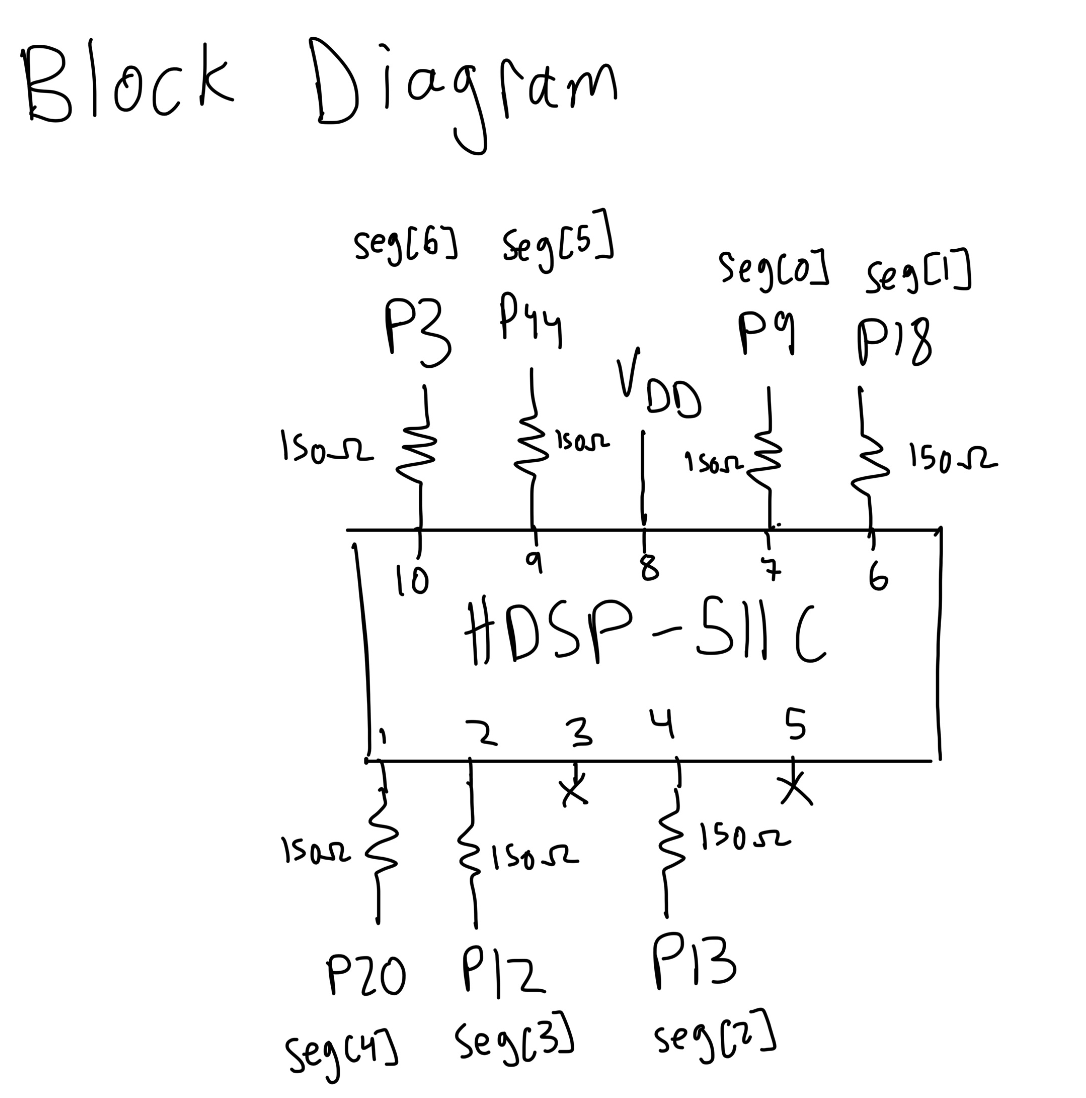
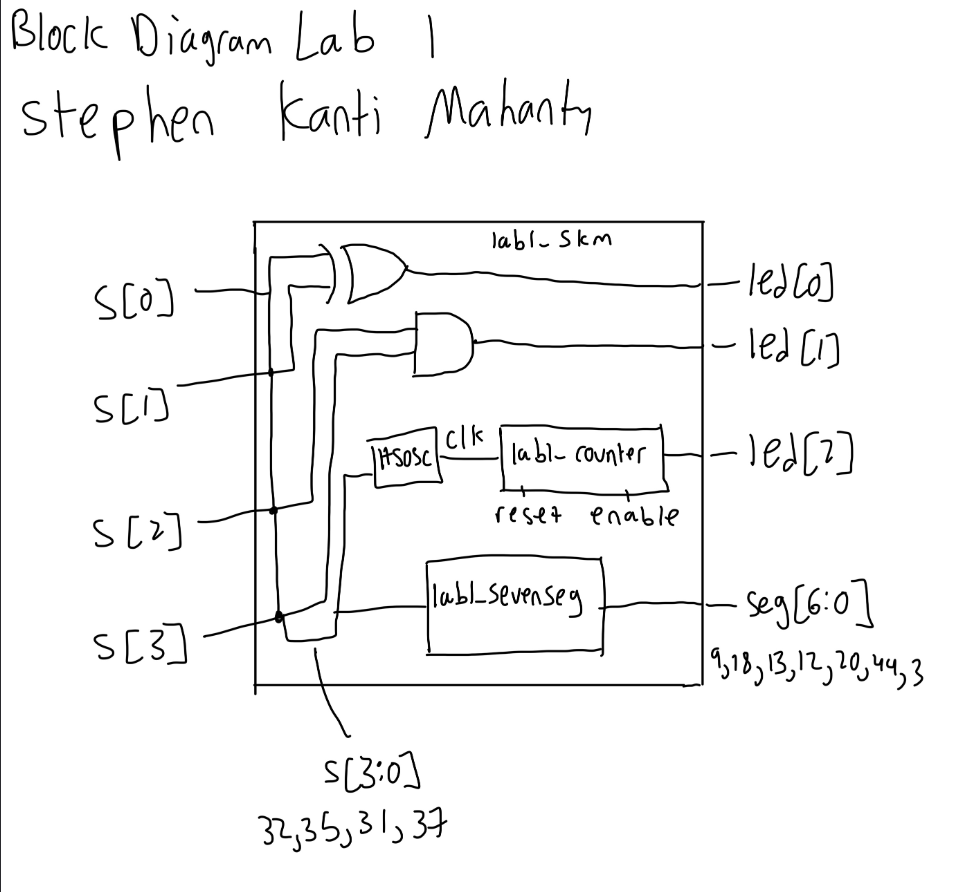
Built site for gh-pages

diff --git a/labs/index.html b/labs/index.html
@@ -264,7 +264,12 @@ window.Quarto = {
 <div id="fig-block-diagram" class="quarto-float quarto-figure quarto-figure-center anchored">
 <figure class="quarto-float quarto-float-fig figure">
 <div aria-describedby="fig-block-diagram-caption-0ceaefa1-69ba-4598-a22c-09a6ac19f8ca">
+<details>
+<summary>
+Click to reveal block diagram
+</summary>
 <img src="images/lab1/blockdiagram.png" class="img-fluid figure-img">
+</details>
 </div>
 <figcaption class="quarto-float-caption-bottom quarto-float-caption quarto-float-fig" id="fig-block-diagram-caption-0ceaefa1-69ba-4598-a22c-09a6ac19f8ca">
 Figure&nbsp;1: Block diagram of the Verilog design.
@@ -275,16 +280,21 @@ Figure&nbsp;1: Block diagram of the Verilog design.
 </section>
 <section id="schematic" class="level3">
 <h3 class="anchored" data-anchor-id="schematic">Schematic</h3>
+<details>
+<summary>
+Click to reveal schematic
+</summary>
 <div id="fig-schematic" class="quarto-float quarto-figure quarto-figure-center anchored">
 <figure class="quarto-float quarto-float-fig figure">
 <div aria-describedby="fig-schematic-caption-0ceaefa1-69ba-4598-a22c-09a6ac19f8ca">
 <img src="images/lab1/schematic.png" class="img-fluid figure-img">
-</div>
+</div></figure></div></details>
+</section></section></main></div>
 <figcaption class="quarto-float-caption-bottom quarto-float-caption quarto-float-fig" id="fig-schematic-caption-0ceaefa1-69ba-4598-a22c-09a6ac19f8ca">
 Figure&nbsp;2: Schematic of the physical circuit.
 </figcaption>
-</figure>
-</div>
+
+
 <p><a href="#fig-schematic" class="quarto-xref">Figure&nbsp;2</a> shows the physical layout of the design. It shows logic gates and connections between all the inputs and outputs. For the big block in the middle describing the seven-segment display, the full logic code is below, but it is pretty messy so I have it below:</p>
 <details>
 <summary>
@@ -329,10 +339,10 @@ assign seg[6] =
      | (~s[3] &amp;  s[2] &amp;  s[1] &amp;  s[0])
      | ( s[3] &amp;  s[2] &amp; ~s[1] &amp; ~s[0]);</code></pre>
 </details>
-</section>
-</section>
+
+
 <section id="results-and-discussion" class="level2">
-<h2 class="anchored" data-anchor-id="results-and-discussion">Results and Discussion</h2>
+<h2 data-anchor-id="results-and-discussion">Results and Discussion</h2>
 <div class="callout callout-style-default callout-note callout-titled" title="Results and Discussion">
 <div class="callout-header d-flex align-content-center">
 <div class="callout-icon-container">
@@ -349,28 +359,43 @@ assign seg[6] =
 <p>I did accomplish all of the prescribed tasks. The design successfully blinked an external LED using the on-board high-speed oscillator. The design also successfully displayed numbers from 0 to 15 on the seven-segment display based on the state of the four switches. The two LEDs controlled by switches also functioned as expected based on the truth table provided.</p>
 <p>Given more time, I would have liked to implement a more sophisticated counter to allow for a more precise output frequency. I would also want to add a second seven-segment display to display more numbers if I can. The current design only allows for the clock to be divided by powers of two, which limits the flexibility of the design. The design is still fast</p>
 <section id="testbench-simulation" class="level3">
-<h3 class="anchored">Testbench Simulation</h3>
-<div id="fig-testbench-top" class="quarto-float quarto-figure quarto-figure-center anchored">
+<h3>Testbench Simulation</h3>
+<details>
+<summary>
+Click to reveal testbench
+</summary>
+<div id="fig-testbench-top" class="quarto-float quarto-figure quarto-figure-center">
 <figure class="quarto-float quarto-float-fig figure">
 <div aria-describedby="fig-testbench-top-caption-0ceaefa1-69ba-4598-a22c-09a6ac19f8ca">
-<p><img src="images/lab1/testbenchtop.png" class="img-fluid figure-img"></p>
-<div id="fig-testbench-counter" class="quarto-float quarto-figure quarto-figure-center anchored">
+<img src="images/lab1/testbenchtop.png" class="img-fluid figure-img">
+</div></figure></div></details>
+<details>
+<summary>
+Click to reveal testbench
+</summary>
+<div id="fig-testbench-counter" class="quarto-float quarto-figure quarto-figure-center">
 <figure class="quarto-float quarto-subfloat-fig figure">
 <div aria-describedby="fig-testbench-counter-caption-0ceaefa1-69ba-4598-a22c-09a6ac19f8ca">
-<p><img src="images/lab1/testbenchcounter.png" class="img-fluid figure-img" data-ref-parent="fig-testbench-top"></p>
-<div id="fig-testbench-seg" class="quarto-float quarto-figure quarto-figure-center anchored">
+<img src="images/lab1/testbenchcounter.png" class="img-fluid figure-img" data-ref-parent="fig-testbench-top">
+</div></figure></div></details>
+<details>
+<summary>
+Click to reveal testbench
+</summary>
+<div id="fig-testbench-seg" class="quarto-float quarto-figure quarto-figure-center">
 <figure class="quarto-float quarto-subfloat-fig figure">
 <div aria-describedby="fig-testbench-seg-caption-0ceaefa1-69ba-4598-a22c-09a6ac19f8ca">
 <img src="images/lab1/testbenchseg.png" class="img-fluid figure-img" data-ref-parent="fig-testbench-top">
-</div>
+</div></figure></div></details>
+
 <figcaption class="quarto-float-caption-bottom quarto-subfloat-caption quarto-subfloat-fig" id="fig-testbench-seg-caption-0ceaefa1-69ba-4598-a22c-09a6ac19f8ca">
 (a) (Top) Screenshot of the QuestaSim simulation for the top-level module. (Middle) Screenshot of the QuestaSim simulation for the counter module. (Bottom) Screenshot of the QuestaSim simulation for the seven-segment display module.
 </figcaption>
-</figure>
-</div>
+
+
 <p>The design met all intended design objectives. <a href="#fig-testbench-top" class="quarto-xref">Figure&nbsp;3</a> shows a screenshot of the top-level QuestaSim simulation. If a more precise output frequency was desired, a more sophisticated counter could be developed. The current design only allows for the clock to be divided by powers of two.</p>
 <section id="conclusion" class="level2">
-<h2 class="anchored" data-anchor-id="conclusion">Conclusion</h2>
+<h2 data-anchor-id="conclusion">Conclusion</h2>
 <div class="callout callout-style-default callout-note callout-titled" title="Conclusion">
 <div class="callout-header d-flex align-content-center">
 <div class="callout-icon-container">
@@ -387,7 +412,7 @@ assign seg[6] =
 <p>The design successfully blinked an external LED using the on-board high-speed oscillator. I spent a total of twenty five hours working on this lab.</p>
 </section>
 <section id="ai-prototype-summary" class="level2">
-<h2 class="anchored" data-anchor-id="ai-prototype-summary">AI Prototype Summary</h2>
+<h2 data-anchor-id="ai-prototype-summary">AI Prototype Summary</h2>
 <p>I asked GPT 5.5 Medium. It gave out the following:</p>
 <details>
 <summary>
@@ -433,22 +458,22 @@ endmodule</code></pre>
 
 
 </section>
-</div>
+
 <figcaption class="quarto-float-caption-bottom quarto-subfloat-caption quarto-subfloat-fig" id="fig-testbench-counter-caption-0ceaefa1-69ba-4598-a22c-09a6ac19f8ca">
 (b)
 </figcaption>
-</figure>
-</div>
-</div>
+
+
+
 <figcaption class="quarto-float-caption-bottom quarto-float-caption quarto-float-fig quarto-uncaptioned" id="fig-testbench-top-caption-0ceaefa1-69ba-4598-a22c-09a6ac19f8ca">
 Figure&nbsp;3
 </figcaption>
-</figure>
-</div>
+
+
 </section>
 </section>
 
-</main> <!-- /main -->
+ <!-- /main -->
 <script id="quarto-html-after-body" type="application/javascript">
   window.document.addEventListener("DOMContentLoaded", function (event) {
     const icon = "";
@@ -849,7 +874,7 @@ Figure&nbsp;3
     }
   });
   </script>
-</div> <!-- /content -->
+ <!-- /content -->
 
 
 

diff --git a/labs.html b/labs.html
@@ -209,7 +209,7 @@ window.Quarto = {
 
 <div class="quarto-listing quarto-listing-container-default" id="listing-listing">
 <div class="list quarto-listing-default">
-<div class="quarto-post image-right" data-index="0" data-listing-file-modified-sort="1788907896875" data-listing-reading-time-sort="9" data-listing-word-count-sort="1796">
+<div class="quarto-post image-right" data-index="0" data-listing-file-modified-sort="1788995924458" data-listing-reading-time-sort="10" data-listing-word-count-sort="1812">
 <div class="thumbnail"><a href="./labs/index.html" class="no-external">
 
 <p class="card-img-top"><img loading='lazy' src="labs\images\lab1\blockdiagram.png"  class="thumbnail-image card-img"/></p>
